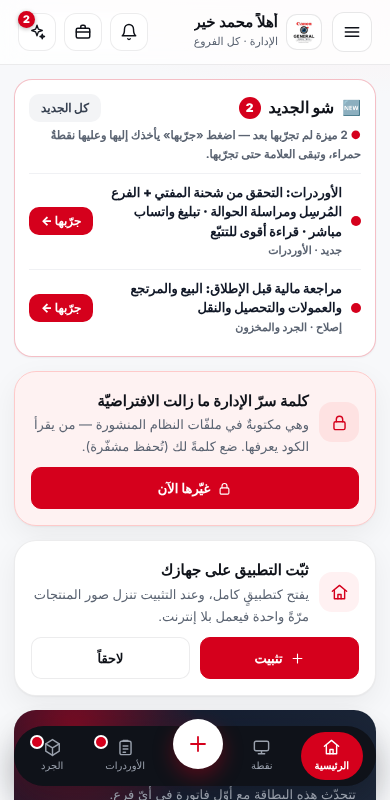
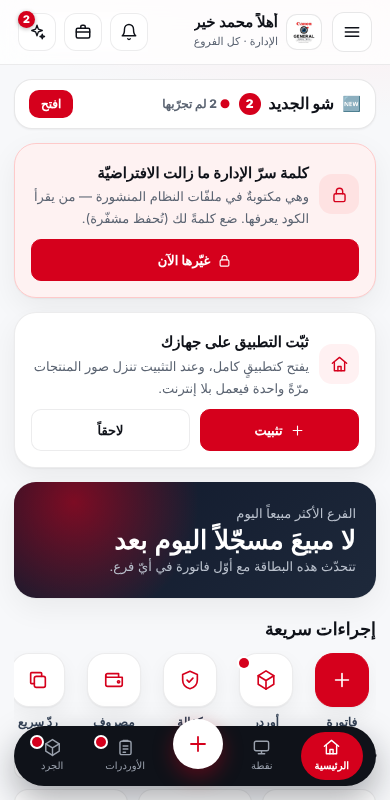
TASK-0190: the home «شو الجديد» card is one small line instead of half the screen
It showed four updates with their buttons (about 600px of an 844px phone). Now it shows the count, how many are untried, and an «افتح» button that opens the full window with «جرّبها». Red dots and the 🆕 bar button are unchanged.

Claude-Session: https://claude.ai/code/session_01MWfC494J8Ayokvio9Ve6C9

diff --git a/gmt-whatsnew.js b/gmt-whatsnew.js
@@ -34,6 +34,11 @@
      v (رقم الدفعة) · t (العنوان) · d (شو صار) · w (ليش — العطل الذي أُصلح)
      pages (الصفحات المعنيّة · فارغة = الكلّ) · tag (نوع البند) */
   var NEWS = [
+    { v: 142, tag: 'إصلاح', at: '2026-10-26T07:00:00Z', t: '🆕 «شو الجديد» في الرئيسية صار سطراً صغيراً — لا يأكل نصف الصفحة',
+      d: '• كانت البطاقة أربعة تحديثاتٍ بأزرارها (نحو ثلثي شاشة الهاتف). الآن سطرٌ واحد: العدد وكم ميزة لم تجرّبها وزرّ «افتح». ' +
+         '• «افتح» (أو زرّ 🆕 في الشريط) يفتح القائمة كاملةً و«جرّبها» لكل ميزة كما كانت، والنقاط الحمراء على الروابط باقية.',
+      w: 'رسالتك 25 ت1: «لوحة الجديد في الأعلى عم تاكل نصّ الصفحة وهذا الشيء غلط — خلاص يبقى زرّ صغير، أو حتى موجود زرّ فيه شو الجديد».',
+      pages: ['home.html'] },
     { v: 141, tag: 'جديد', at: '2026-10-26T06:30:00Z', t: '🌐 العقل يبحث عن التوافق في الإنترنت · وما يجده يُضاف لدليل التوافقيات وحده — والبحث يجده فوراً',
       d: '• **ماذا يبحث:** حين يجهّز إكسسواراً: الغطاء والفلتر والهود اللولبي بقطر الفلتر · الهود بكوده · البطارية والشاحن والقبضة بكودها · الفلاش والتريغر والمايك باسمه · وبقيّة الإكسسوارات. ' +
          '• **يُضاف للدليل فوراً** كما اخترت، بمصدر كل سطر · ويقرؤه البحث في الجرد ونقطة البيع ولو لم تحفظ المنتج بعد · ويعطيه العقل لنفسه في المرّة التالية. ' +
@@ -1116,20 +1121,13 @@
         '<button type="button" class="gwn-btn gwn-ok" data-wn-open="1">كل الجديد</button></div></section>';
     }
     var nt = fr.filter(function (n) { return untried(n, tm); }).length;
-    var shown = fr.slice(0, 4);
-    return '<section id="wn-home" aria-label="شو الجديد"><div class="gwn-h"><span aria-hidden="true">🆕</span><b>شو الجديد</b>' +
-      '<span class="gwn-n">' + fr.length + '</span><span style="flex:1"></span>' +
-      '<button type="button" class="gwn-btn gwn-ok" data-wn-open="1">كل الجديد</button></div>' +
-      '<div class="gwn-sub">' + (nt ? '<span style="color:#D5001C">●</span> ' + nt + ' ميزة لم تجرّبها بعد — اضغط «جرّبها» يأخذك إليها وعليها نقطةٌ حمراء، وتبقى العلامة حتى تجرّبها.'
-                                   : 'تحديثاتٌ لم تقرأها بعد.') + '</div>' +
-      shown.map(function (n) {
-        var ut = untried(n, tm), g = goOf(n);
-        return '<div class="gwn-it">' + (ut ? '<span class="gwn-dot gwn-inl" aria-hidden="true"></span>' : '<span style="width:10px;flex:0 0 auto"></span>') +
-          '<div class="gwn-tx"><b>' + esc(n.t) + '</b><small>' + esc(n.tag || '') + (g ? ' · ' + esc(pageName(g.p)) : '') + '</small></div>' +
-          '<div class="gwn-acts">' + (g ? '<button type="button" class="gwn-btn gwn-go" data-wn-try="' + n.v + '">جرّبها ←</button>'
-                                        : '<button type="button" class="gwn-btn gwn-ok" data-wn-open="1">اقرأ</button>') + '</div></div>';
-      }).join('') +
-      (fr.length > shown.length ? '<div style="text-align:center;padding-top:6px"><button type="button" class="gwn-btn gwn-ok" data-wn-open="1">و' + (fr.length - shown.length) + ' غيرها…</button></div>' : '') +
+    /* (26 ت1 · TASK-0190 · المالك seq 125 «لوحة الجديد في الأعلى عم تاكل نصّ الصفحة وهذا غلط — خلاص يبقى زرّ صغير») كانت أربعة بنودٍ بأزرارها
+       (~٦٠٠ بكسل من شاشة هاتفٍ ٨٤٤). الآن سطرٌ واحد: العدد وما لم تجرّبه وزرّ «افتح» — والقائمة بـ«جرّبها» في نافذة «شو الجديد» نفسها. */
+    return '<section id="wn-home" class="gwn-calm" aria-label="شو الجديد"><div class="gwn-h"><span aria-hidden="true">🆕</span><b>شو الجديد</b>' +
+      '<span class="gwn-n">' + fr.length + '</span>' +
+      '<span style="font-size:12px;color:#5b6472;font-weight:800;min-width:0;overflow:hidden;text-overflow:ellipsis;white-space:nowrap;flex:1">' +
+      (nt ? '<span style="color:#D5001C">●</span> ' + nt + ' لم تجرّبها' : 'لم تقرأها بعد') + '</span>' +
+      '<button type="button" class="gwn-btn gwn-go" data-wn-open="1">افتح</button></div>' +
       '</section>';
   }
   function refreshCard() {

diff --git a/tests/harness/t_wn_home_compact.js b/tests/harness/t_wn_home_compact.js
@@ -1,0 +1,27 @@
+// (26 ت1 · TASK-0190) المالك seq 125: «لوحة الجديد في الأعلى عم تاكل نصّ الصفحة وهذا الشيء غلط — خلاص يبقى زرّ صغير، أو حتى موجود زرّ فيه شو الجديد».
+// كانت بطاقة الرئيسية أربعة بنودٍ بأزرارها (~٦٠٠ بكسل من شاشة ٨٤٤) ⇒ سطرٌ واحد: العدد وما لم تجرّبه و«افتح» — والقائمة بـ«جرّبها» في النافذة.
+const H = require('./h.js');
+let fails = 0, pass = 0; const ok = (c, m) => { console.log((c ? '  ✔ ' : '  ✘ ') + m); if (c) pass++; else fails++; };
+const INIT = H.ADMIN_INIT.replace("localStorage.setItem('gmt_whatsnew_seen','999');", "localStorage.setItem('gmt_whatsnew_seen','999'); localStorage.removeItem('gmt_wn_tried');");
+(async () => {
+  await H.seed();
+  for (const W of [390, 1366]) {
+    const o = await H.open('home.html', { w: W, h: W < 700 ? 844 : 900, mobile: W < 700, wait: 6000, init: INIT });
+    const r = await o.pg.evaluate(() => {
+      const c = document.getElementById('wn-home'), b = c && c.getBoundingClientRect();
+      return { h: b ? Math.round(b.height) : -1, y: b ? Math.round(b.top) : -1, txt: c ? c.innerText.replace(/\s+/g, ' ') : '', tries: c ? c.querySelectorAll('[data-wn-try]').length : -1,
+        open: !!(c && c.querySelector('[data-wn-open]')), un: GMTWhatsNew.untried().length };
+    });
+    ok(r.h > 0 && r.h <= 72 && r.y < 300, W + ': سطرٌ واحد أعلى الرئيسية (ارتفاعه ' + r.h + ' بكسل · كان ~٦٠٠)');
+    ok(/شو الجديد/.test(r.txt) && new RegExp(r.un + ' لم تجرّبها').test(r.txt) && r.tries === 0 && r.open, W + ': فيه العدد و«' + r.un + ' لم تجرّبها» وزرّ «افتح» — بلا قائمة: ' + r.txt.slice(0, 60));
+    if (W === 390) await o.pg.screenshot({ path: '/tmp/gmt-out/wn_home_compact_390.png' });
+    await o.pg.click('#wn-home [data-wn-open]');
+    await o.pg.waitForTimeout(600);
+    const w = await o.pg.evaluate(() => ({ ov: !!document.getElementById('gmt-wn-ov'), tries: document.querySelectorAll('#gmt-wn-ov [data-wn-try]').length }));
+    ok(w.ov && w.tries > 0, W + ': «افتح» يفتح نافذة «شو الجديد» وفيها «جرّبها» (' + w.tries + ')');
+    const real = o.errs.filter(e => !/status of (400|401|404|406|503)|Failed to load resource|أصول ناقصة/.test(e));
+    ok(!real.length, W + ': لا أخطاء JS ' + real.slice(0, 2).join(' / '));
+    await o.browser.close();
+  }
+  console.log(fails ? `FAIL ${fails} / ${pass + fails}` : `ALL PASS (${pass})`); process.exit(fails ? 1 : 0);
+})().catch(e => { console.error(e); process.exit(2); });

diff --git a/tests/harness/t_wn_try.js b/tests/harness/t_wn_try.js
@@ -21,7 +21,7 @@ const ok = (c, m) => { if (c) { pass++; console.log('  ✓', m); } else { fail++
     });
     ok(r.card, 'البطاقة ظاهرة أعلى الرئيسية (y=' + r.y + ')');
     ok(r.y >= 0 && r.y < 400, 'البطاقة في أعلى الشاشة الأولى');
-    ok(r.tries >= 2, 'فيها أزرار «جرّبها» (' + r.tries + ')');
+    ok(r.tries === 0 && /لم تجرّبها/.test(r.cardTxt), 'سطرٌ صغير بعدد ما لم تجرّبه بلا قائمة (TASK-0190 · seq 125: «لوحة الجديد عم تاكل نصّ الصفحة») — «جرّبها» في النافذة');
     ok(r.fab, 'زرّ شو الجديد ظاهر بالشريط');
     ok(r.badge === String(r.untried.length), 'العدّاد على الزرّ = ما لم تجرّبه (' + r.badge + ')');
     ok(r.dots.includes('orders.html') || r.dots.some(x => /orders/.test(x)), 'نقطة حمراء على رابط الأوردرات · ' + r.dots.join(','));

diff --git a/sw.js b/sw.js
@@ -18,7 +18,7 @@
       ⇒ غيّر VERSION في كل نشر، وسيُعرض إشعار تحديث تلقائياً.
    ═══════════════════════════════════════════════════════════════════════════ */
 
-const VERSION = 'gmt-v20261026g';       // ⬅ غيّره في كل نشر
+const VERSION = 'gmt-v20261026h';       // ⬅ غيّره في كل نشر
 const LIBS    = VERSION + '-libs';
 /* (22 ت1 · TASK-0122) ملفّات قارئ الإيصال (lib/ocr: نواة التعرّف ٣٫٩ م.ب + نموذج العربية ١٫٧ م.ب) — كانت «الشبكة أوّلاً» مثل
    صفحات الموقع، فتُطلب من الشبكة في كل فتحة صفحة (بطيءٌ على اتّصالٍ ضعيف). محتواها ثابتٌ لاسمها (tesseract.js 7.0.0)

diff --git a/admin_store.html b/admin_store.html
@@ -3549,7 +3549,7 @@ renderOffersAdmin = function(){ GMTOffersTool.mount('gmt-offers-mount-store'); }
 <script src="gmt-brain.js?v=20261026g"></script>
 <!-- 🆕 «شو الجديد» — نافذة تُعرَض مرّة واحدة لكل دفعة، وزرّ دائم بعدها.
      لا تُحمَّل على صفحات الزبون إطلاقاً (أخبار داخلية). -->
-<script src="gmt-whatsnew.js?v=20261026g"></script>
+<script src="gmt-whatsnew.js?v=20261026h"></script>
 <script src="gmt-refresh.js?v=20261011a"></script>
 <script src="gmt-intro.js?v=20261010b"></script>
 <!-- 🚫 (2026-10-03) حارس «لا أزرار عائمة» — كان مرفوعاً على ٥ صفحات من ٤٦،

diff --git a/user_guide.html b/user_guide.html
@@ -660,7 +660,7 @@ h3{font-size:16px;font-weight:900;color:#D5001C;margin:28px 0 10px}
 <script src="gmt-brain.js?v=20261026g"></script>
 <!-- 🆕 «شو الجديد» — نافذة تُعرَض مرّة واحدة لكل دفعة، وزرّ دائم بعدها.
      لا تُحمَّل على صفحات الزبون إطلاقاً (أخبار داخلية). -->
-<script src="gmt-whatsnew.js?v=20261026g"></script>
+<script src="gmt-whatsnew.js?v=20261026h"></script>
 <script src="gmt-refresh.js?v=20261011a"></script>
 <script src="gmt-intro.js?v=20261010b"></script>
 <!-- 🚫 (2026-10-03) حارس «لا أزرار عائمة» — كان مرفوعاً على ٥ صفحات من ٤٦،

diff --git a/تفعيل_عقل_النظام.html b/تفعيل_عقل_النظام.html
@@ -259,7 +259,7 @@ supabase functions deploy gmt-brain --no-verify-jwt</code></pre>
 <!-- 🆕 «شو الجديد» — نافذة تُعرَض مرّة واحدة لكل دفعة، وزرّ دائم بعدها.
      لا تُحمَّل على صفحات الزبون إطلاقاً (أخبار داخلية). -->
 <script src="gmt-endpoint.js?v=20261017c"></script>
-<script src="gmt-whatsnew.js?v=20261026g"></script>
+<script src="gmt-whatsnew.js?v=20261026h"></script>
 <script src="gmt-refresh.js?v=20261011a"></script>
 <script src="gmt-intro.js?v=20261010b"></script>
 <!-- 🚫 (2026-10-03) حارس «لا أزرار عائمة» — كان مرفوعاً على ٥ صفحات من ٤٦،

diff --git a/hiring.html b/hiring.html
@@ -1966,7 +1966,7 @@ document.addEventListener('DOMContentLoaded', () => {
 <script src="gmt-selfcheck.js?v=20261025y"></script>
 <!-- 🆕 «شو الجديد» — نافذة تُعرَض مرّة واحدة لكل دفعة، وزرّ دائم بعدها.
      لا تُحمَّل على صفحات الزبون إطلاقاً (أخبار داخلية). -->
-<script src="gmt-whatsnew.js?v=20261026g"></script>
+<script src="gmt-whatsnew.js?v=20261026h"></script>
 <script src="gmt-refresh.js?v=20261011a"></script>
 <script src="gmt-intro.js?v=20261010b"></script>
 <!-- 🚫 (2026-10-03) حارس «لا أزرار عائمة» — كان مرفوعاً على ٥ صفحات من ٤٦،

diff --git a/inventory.html b/inventory.html
@@ -15164,7 +15164,7 @@ window.showWelcomeSlidesForce = showWelcomeSlidesForce;
 <script src="gmt-brain.js?v=20261026g"></script>
 <!-- 🆕 «شو الجديد» — نافذة تُعرَض مرّة واحدة لكل دفعة، وزرّ دائم بعدها.
      لا تُحمَّل على صفحات الزبون إطلاقاً (أخبار داخلية). -->
-<script src="gmt-whatsnew.js?v=20261026g"></script>
+<script src="gmt-whatsnew.js?v=20261026h"></script>
 <script src="gmt-refresh.js?v=20261011a"></script>
 <script src="gmt-intro.js?v=20261010b"></script>
 <!-- 🚫 (2026-10-03) حارس «لا أزرار عائمة» — كان مرفوعاً على ٥ صفحات من ٤٦،

diff --git a/bridge.html b/bridge.html
@@ -1467,7 +1467,7 @@ window.addEventListener('DOMContentLoaded', () => {
 <script src="gmt-brain.js?v=20261026g"></script>
 <!-- 🆕 «شو الجديد» — نافذة تُعرَض مرّة واحدة لكل دفعة، وزرّ دائم بعدها.
      لا تُحمَّل على صفحات الزبون إطلاقاً (أخبار داخلية). -->
-<script src="gmt-whatsnew.js?v=20261026g"></script>
+<script src="gmt-whatsnew.js?v=20261026h"></script>
 <script src="gmt-refresh.js?v=20261011a"></script>
 <script src="gmt-intro.js?v=20261010b"></script>
 <!-- 🚫 (2026-10-03) حارس «لا أزرار عائمة» — كان مرفوعاً على ٥ صفحات من ٤٦،

diff --git a/backup.html b/backup.html
@@ -364,7 +364,7 @@ async function doRestore(dbKey, fname, table) {
 <script src="gmt-brain.js?v=20261026g"></script>
 <!-- 🆕 «شو الجديد» — نافذة تُعرَض مرّة واحدة لكل دفعة، وزرّ دائم بعدها.
      لا تُحمَّل على صفحات الزبون إطلاقاً (أخبار داخلية). -->
-<script src="gmt-whatsnew.js?v=20261026g"></script>
+<script src="gmt-whatsnew.js?v=20261026h"></script>
 <script src="gmt-refresh.js?v=20261011a"></script>
 <script src="gmt-intro.js?v=20261010b"></script>
 <!-- 🚫 (2026-10-03) حارس «لا أزرار عائمة» — كان مرفوعاً على ٥ صفحات من ٤٦،

diff --git a/admin_sovereign.html b/admin_sovereign.html
@@ -384,7 +384,7 @@ function savePwManager(){ openPwManager(); }
 <script src="gmt-brain.js?v=20261026g"></script>
 <!-- 🆕 «شو الجديد» — نافذة تُعرَض مرّة واحدة لكل دفعة، وزرّ دائم بعدها.
      لا تُحمَّل على صفحات الزبون إطلاقاً (أخبار داخلية). -->
-<script src="gmt-whatsnew.js?v=20261026g"></script>
+<script src="gmt-whatsnew.js?v=20261026h"></script>
 <script src="gmt-refresh.js?v=20261011a"></script>
 <script src="gmt-intro.js?v=20261010b"></script>
 <!-- 🚫 (2026-10-03) حارس «لا أزرار عائمة» — كان مرفوعاً على ٥ صفحات من ٤٦،
